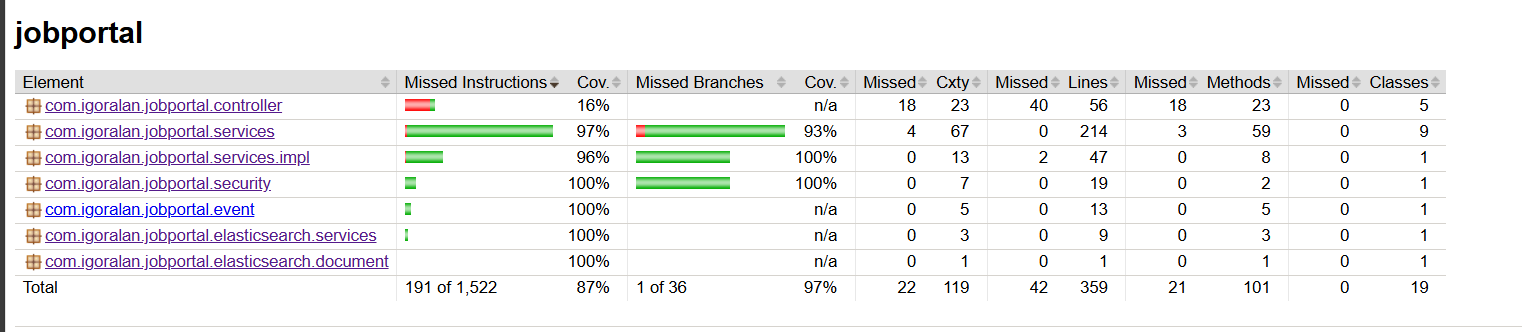
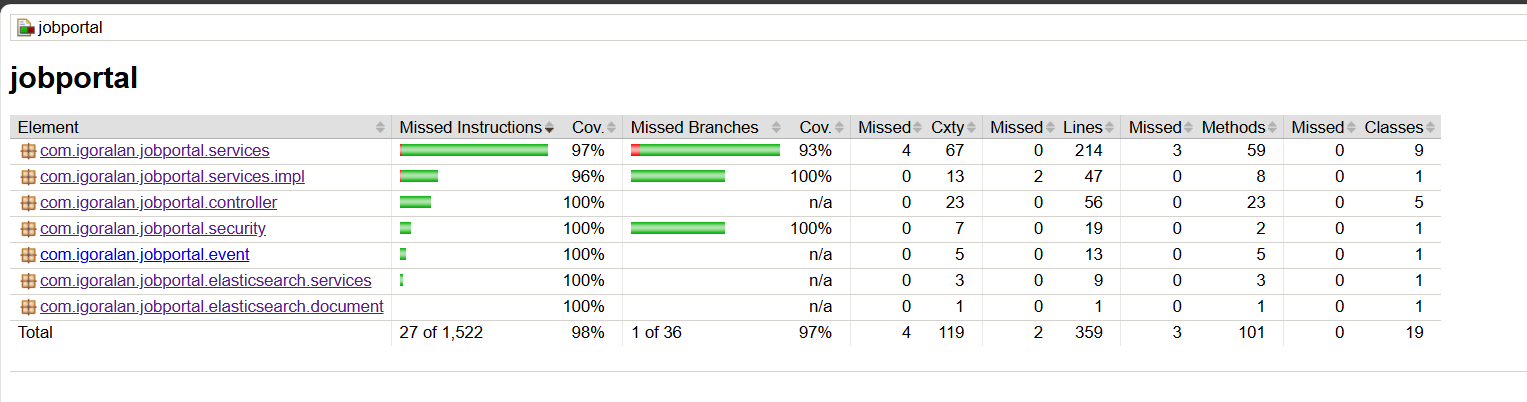
test: :white_check_mark: Testes para JobController
Foram escritos testes de integração para cobrir todas as bifurcações dos metodos de JobController. Foi atualizado testes.png para a versão mais recente.

Changed region(s): [[0.0, 0.0, 1.0, 1.0]]

diff --git a/backend/src/test/java/com/igoralan/jobportal/controller/JobControllerIT.java b/backend/src/test/java/com/igoralan/jobportal/controller/JobControllerIT.java
@@ -1,0 +1,250 @@
+package com.igoralan.jobportal.controller;
+
+import com.igoralan.jobportal.models.dtos.JobSummaryDto;
+import com.igoralan.jobportal.services.JobService;
+import org.junit.jupiter.api.DisplayName;
+import org.junit.jupiter.api.Test;
+import org.springframework.beans.factory.annotation.Autowired;
+import org.springframework.boot.test.autoconfigure.web.servlet.AutoConfigureMockMvc;
+import org.springframework.boot.test.context.SpringBootTest;
+import org.springframework.data.domain.Page;
+import org.springframework.data.domain.PageImpl;
+import org.springframework.security.test.context.support.WithMockUser;
+import org.springframework.test.context.ActiveProfiles;
+import org.springframework.test.context.bean.override.mockito.MockitoBean;
+import org.springframework.test.web.servlet.MockMvc;
+
+import java.time.LocalDateTime;
+import java.util.List;
+
+import static org.hamcrest.Matchers.hasSize;
+import static org.mockito.ArgumentMatchers.*;
+import static org.mockito.Mockito.*;
+import static org.springframework.test.web.servlet.request.MockMvcRequestBuilders.*;
+import static org.springframework.test.web.servlet.result.MockMvcResultMatchers.*;
+
+@SpringBootTest
+@AutoConfigureMockMvc
+@ActiveProfiles("test")
+class JobControllerIT {
+
+    @Autowired
+    MockMvc mockMvc;
+
+    @MockitoBean
+    JobService jobService;
+
+    // ---------- GET /api/jobs/my-jobs ----------
+    @Test
+    @DisplayName("GET /api/jobs/my-jobs (Recruiter) deve retornar 200")
+    @WithMockUser(authorities = "Recruiter")
+    void getRecruiterJobs_ok() throws Exception {
+        when(jobService.getRecruiterJobs()).thenReturn(List.of());
+
+        mockMvc.perform(get("/api/jobs/my-jobs"))
+                .andExpect(status().isOk())
+                .andExpect(content().contentTypeCompatibleWith("application/json"))
+                .andExpect(jsonPath("$", hasSize(0)));
+
+        verify(jobService).getRecruiterJobs();
+    }
+
+    @Test
+    @DisplayName("GET /api/jobs/my-jobs não autenticado deve retornar 401")
+    void getRecruiterJobs_unauthenticated_401() throws Exception {
+        mockMvc.perform(get("/api/jobs/my-jobs"))
+                .andExpect(status().isUnauthorized());
+
+        verifyNoInteractions(jobService);
+    }
+
+    @Test
+    @DisplayName("GET /api/jobs/my-jobs autenticado sem permissão deve retornar 403")
+    @WithMockUser(authorities = "JobSeeker")
+    void getRecruiterJobs_forbidden_403() throws Exception {
+        mockMvc.perform(get("/api/jobs/my-jobs"))
+                .andExpect(status().isForbidden());
+
+        verifyNoInteractions(jobService);
+    }
+
+    // ---------- POST /api/jobs/ ----------
+    @Test
+    @DisplayName("POST /api/jobs/ (Recruiter) deve criar e retornar 201")
+    @WithMockUser(authorities = "Recruiter")
+    void createNewJob_ok() throws Exception {
+        when(jobService.createNewJob(any())).thenReturn(null);
+
+        mockMvc.perform(post("/api/jobs/")
+                .contentType("application/json")
+                .content("{}"))
+                .andExpect(status().isCreated());
+
+        verify(jobService).createNewJob(any());
+    }
+
+    @Test
+    @DisplayName("POST /api/jobs/ não autenticado deve retornar 401")
+    void createNewJob_unauthenticated_401() throws Exception {
+        mockMvc.perform(post("/api/jobs/")
+                .contentType("application/json")
+                .content("{}"))
+                .andExpect(status().isUnauthorized());
+
+        verifyNoInteractions(jobService);
+    }
+
+    @Test
+    @DisplayName("POST /api/jobs/ autenticado sem permissão deve retornar 403")
+    @WithMockUser(authorities = "JobSeeker")
+    void createNewJob_forbidden_403() throws Exception {
+        mockMvc.perform(post("/api/jobs/")
+                .contentType("application/json")
+                .content("{}"))
+                .andExpect(status().isForbidden());
+
+        verifyNoInteractions(jobService);
+    }
+
+    // ---------- GET /api/jobs/{id} ----------
+    @Test
+    @DisplayName("GET /api/jobs/{id} deve retornar 200 (público)")
+    @WithMockUser(authorities = "JobSeeker")
+    void getJobDetails_ok() throws Exception {
+        when(jobService.getJobDetails(42L)).thenReturn(null);
+
+        mockMvc.perform(get("/api/jobs/{id}", 42L))
+                .andExpect(status().isOk());
+
+        verify(jobService).getJobDetails(42L);
+    }
+
+    // ---------- GET /api/jobs/search ----------
+    @Test
+    @DisplayName("GET /api/jobs/search deve retornar Page<JobSummaryDto> com 2 itens")
+    @WithMockUser(authorities = "JobSeeker")
+    void searchJobs_ok() throws Exception {
+        JobSummaryDto j1 = new JobSummaryDto(
+                1L, "Engenheiro de Software", "Tech Corp", "São Paulo", "SP", LocalDateTime.now());
+        JobSummaryDto j2 = new JobSummaryDto(
+                2L, "Analista de Dados", "Data Inc", "Rio de Janeiro", "RJ", LocalDateTime.now());
+
+        Page<JobSummaryDto> page = new PageImpl<>(List.of(j1, j2));
+
+        when(jobService.searchJobs(eq("java"), eq("SP"), any())).thenReturn(page);
+
+        mockMvc.perform(get("/api/jobs/search")
+                .param("keyword", "java")
+                .param("location", "SP"))
+                .andExpect(status().isOk())
+                .andExpect(jsonPath("$.content", hasSize(2)))
+                .andExpect(jsonPath("$.content[0].jobTitle").value("Engenheiro de Software"))
+                .andExpect(jsonPath("$.content[1].companyName").value("Data Inc"));
+
+        verify(jobService).searchJobs(eq("java"), eq("SP"), any());
+    }
+
+    // ---------- GET /api/jobs/{id}/applicants ----------
+    @Test
+    @DisplayName("GET /api/jobs/{id}/applicants (Recruiter) deve retornar 200")
+    @WithMockUser(authorities = "Recruiter")
+    void getJobApplicants_ok() throws Exception {
+        when(jobService.getJobApplicants(10L)).thenReturn(List.of());
+
+        mockMvc.perform(get("/api/jobs/{id}/applicants", 10L))
+                .andExpect(status().isOk())
+                .andExpect(content().contentTypeCompatibleWith("application/json"))
+                .andExpect(jsonPath("$", hasSize(0)));
+
+        verify(jobService).getJobApplicants(10L);
+    }
+
+    @Test
+    @DisplayName("GET /api/jobs/{id}/applicants não autenticado deve retornar 401")
+    void getJobApplicants_unauthenticated_401() throws Exception {
+        mockMvc.perform(get("/api/jobs/{id}/applicants", 10L))
+                .andExpect(status().isUnauthorized());
+
+        verifyNoInteractions(jobService);
+    }
+
+    @Test
+    @DisplayName("GET /api/jobs/{id}/applicants autenticado sem permissão deve retornar 403")
+    @WithMockUser(authorities = "JobSeeker")
+    void getJobApplicants_forbidden_403() throws Exception {
+        mockMvc.perform(get("/api/jobs/{id}/applicants", 10L))
+                .andExpect(status().isForbidden());
+
+        verifyNoInteractions(jobService);
+    }
+
+    // ---------- DELETE /api/jobs/{id} ----------
+    @Test
+    @DisplayName("DELETE /api/jobs/{id} (Recruiter) deve retornar 204")
+    @WithMockUser(authorities = "Recruiter")
+    void deleteJob_ok() throws Exception {
+        doNothing().when(jobService).deleteJob(55L);
+
+        mockMvc.perform(delete("/api/jobs/{id}", 55L))
+                .andExpect(status().isNoContent());
+
+        verify(jobService).deleteJob(55L);
+    }
+
+    @Test
+    @DisplayName("DELETE /api/jobs/{id} não autenticado deve retornar 401")
+    void deleteJob_unauthenticated_401() throws Exception {
+        mockMvc.perform(delete("/api/jobs/{id}", 55L))
+                .andExpect(status().isUnauthorized());
+
+        verifyNoInteractions(jobService);
+    }
+
+    @Test
+    @DisplayName("DELETE /api/jobs/{id} autenticado sem permissão deve retornar 403")
+    @WithMockUser(authorities = "JobSeeker")
+    void deleteJob_forbidden_403() throws Exception {
+        mockMvc.perform(delete("/api/jobs/{id}", 55L))
+                .andExpect(status().isForbidden());
+
+        verifyNoInteractions(jobService);
+    }
+
+    // ---------- PUT /api/jobs/{id} ----------
+    @Test
+    @DisplayName("PUT /api/jobs/{id} (Recruiter) deve retornar 200")
+    @WithMockUser(authorities = "Recruiter")
+    void updateJob_ok() throws Exception {
+        when(jobService.updateJob(eq(77L), any())).thenReturn(null);
+
+        mockMvc.perform(put("/api/jobs/{id}", 77L)
+                .contentType("application/json")
+                .content("{}"))
+                .andExpect(status().isOk());
+
+        verify(jobService).updateJob(eq(77L), any());
+    }
+
+    @Test
+    @DisplayName("PUT /api/jobs/{id} não autenticado deve retornar 401")
+    void updateJob_unauthenticated_401() throws Exception {
+        mockMvc.perform(put("/api/jobs/{id}", 77L)
+                .contentType("application/json")
+                .content("{}"))
+                .andExpect(status().isUnauthorized());
+
+        verifyNoInteractions(jobService);
+    }
+
+    @Test
+    @DisplayName("PUT /api/jobs/{id} autenticado sem permissão deve retornar 403")
+    @WithMockUser(authorities = "JobSeeker")
+    void updateJob_forbidden_403() throws Exception {
+        mockMvc.perform(put("/api/jobs/{id}", 77L)
+                .contentType("application/json")
+                .content("{}"))
+                .andExpect(status().isForbidden());
+
+        verifyNoInteractions(jobService);
+    }
+}
